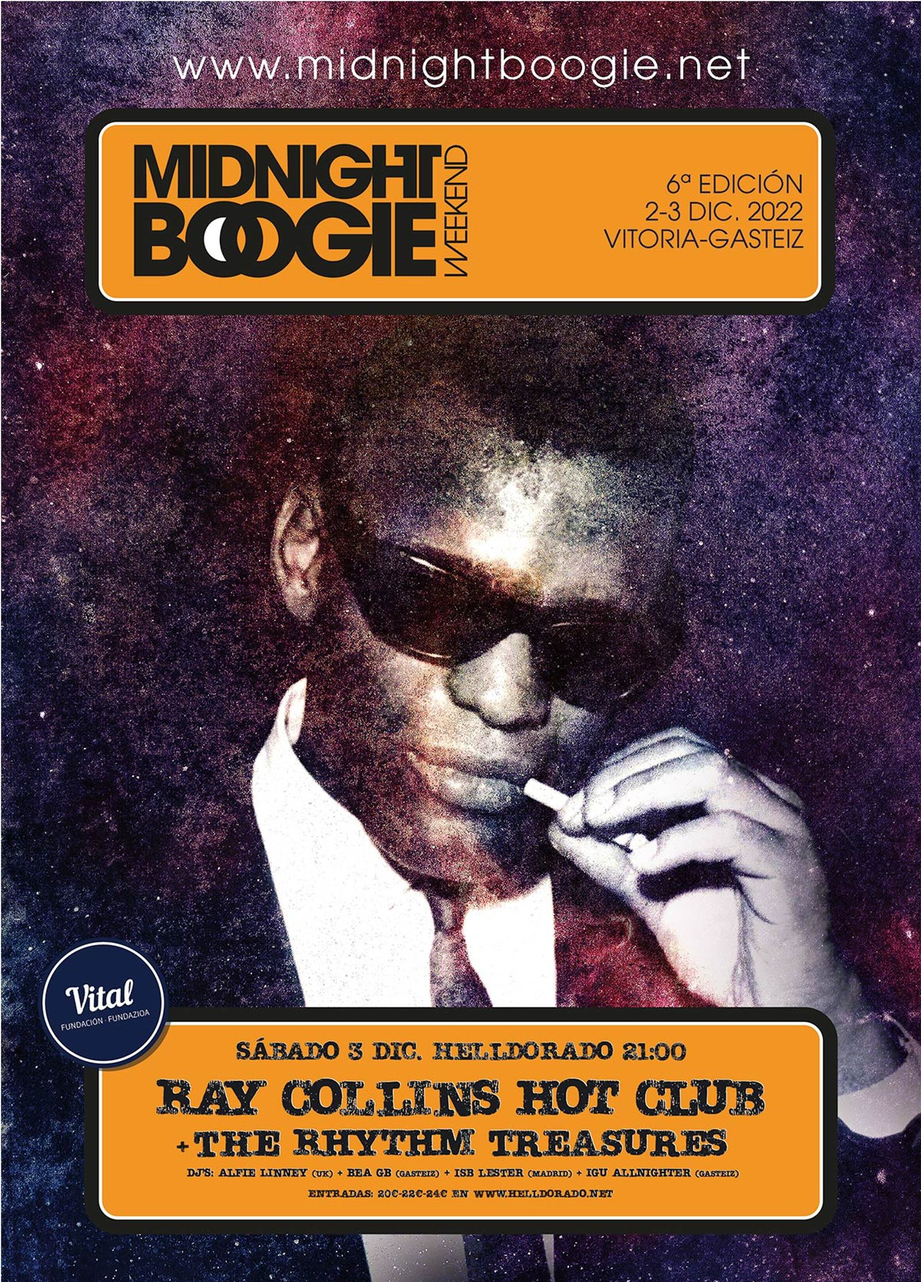
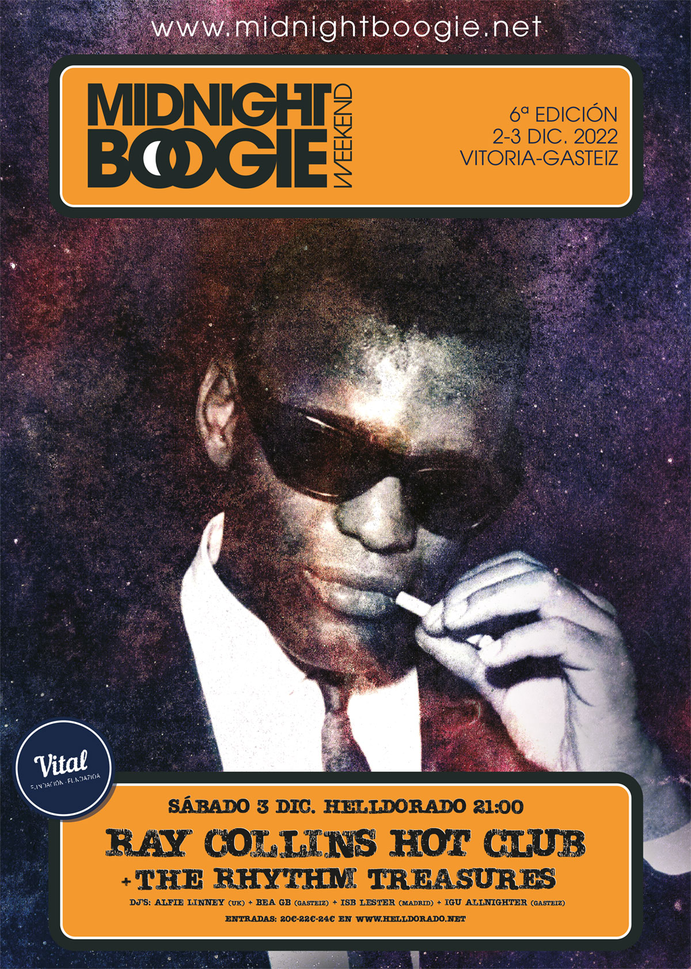
fix: lightbox archivo con flechas laterales y centrado

diff --git a/src/data/archivo.ts b/src/data/archivo.ts
@@ -7,6 +7,7 @@ export interface PastEdition {
   description: string; // Campo listo para el futuro CMS
   artists?: string[];  
   image?: string;
+  imageBack?: string;
   link?: string; // Opcional: si no existe, la web muestra "Próximamente"
 }
 
@@ -17,7 +18,8 @@ export const pastEditions: PastEdition[] = [
     dates: "28-29 de noviembre, 2025",
     description: "Edición del festival de 2025.",
     artists: ["Stone Foundation", "BEA GB", "SYL AL", "The Lazy Tones"],
-    image: "/images/2025/2025.png"
+    image: "/images/2025/2025.jpg",
+    imageBack: "/images/2025/2025-02.jpg",
     // link eliminado temporalmente
   },
   {
@@ -26,7 +28,8 @@ export const pastEditions: PastEdition[] = [
     dates: "22-23 de noviembre, 2024",
     description: "Edición del festival de 2024.",
     artists: ["Nine Below Zero", "Los Fulanos", "Haylen"],
-    image: "/images/2024/2024.jpg"
+    image: "/images/2024/2024.jpg",
+    imageBack: "/images/2024/2024-2.jpg",
   },
   {
     year: 2023,
@@ -34,7 +37,8 @@ export const pastEditions: PastEdition[] = [
     dates: "24-25 de noviembre, 2023",
     description: "Edición del festival de 2023.",
     artists: ["Artista 1", "Artista 2", "Artista 3"],
-    image: "/images/2023/2023.jpg"
+    image: "/images/2023/2023.jpg",
+    imageBack: "/images/2023/2023-2.jpg",
   },
   {
     year: 2022,
@@ -42,7 +46,9 @@ export const pastEditions: PastEdition[] = [
     dates: "25-26 de noviembre, 2022",
     description: "Edición del festival de 2022.",
     artists: ["Artista 1", "Artista 2", "Artista 3"],
-    image: "/images/2022/2022.jpg"
+    image: "/images/2022/2022.jpg",
+    imageBack: "/images/2022/2022-2.jpg",
+
   },
   {
     year: 2021,
@@ -50,7 +56,8 @@ export const pastEditions: PastEdition[] = [
     dates: "26-27 de noviembre, 2021",
     description: "Edición del festival de 2021.",
     artists: ["Artista 1", "Artista 2", "Artista 3"],
-    image: "/images/2021/2021.jpg"
+    image: "/images/2021/2021.jpg",
+    imageBack: "/images/2021/2021-2.jpg",
   },
   {
     year: 2020,
@@ -66,7 +73,8 @@ export const pastEditions: PastEdition[] = [
     dates: "22-23 de noviembre, 2019",
     description: "Edición del festival de 2019.",
     artists: ["Artista 1", "Artista 2", "Artista 3"],
-    image: "/images/2019/2019.jpg"
+    image: "/images/2019/2019.jpg",
+    imageBack: "/images/2019/2019-1.jpg",
   },
   {
     year: 2018,
@@ -74,7 +82,9 @@ export const pastEditions: PastEdition[] = [
     dates: "23-24 de noviembre, 2018",
     description: "Edición del festival de 20218.",
     artists: ["Artista 1", "Artista 2", "Artista 3"],
-    image: "/images/2018/2018.jpg"
+    image: "/images/2018/2018.jpg",
+    imageBack: "/images/2018/2018-2.jpg",
+
   },
   {
     year: 2017,

diff --git a/src/styles/global.css b/src/styles/global.css
@@ -24,3 +24,14 @@ body {
   background-color: #0a0a0a;
   overflow-x: hidden;
 }
+
+#flyer-dialog {
+  margin: auto;
+  width: fit-content;
+  height: fit-content;
+  max-width: 92vw;
+}
+
+button:not(:disabled) {
+  cursor: pointer;
+}
